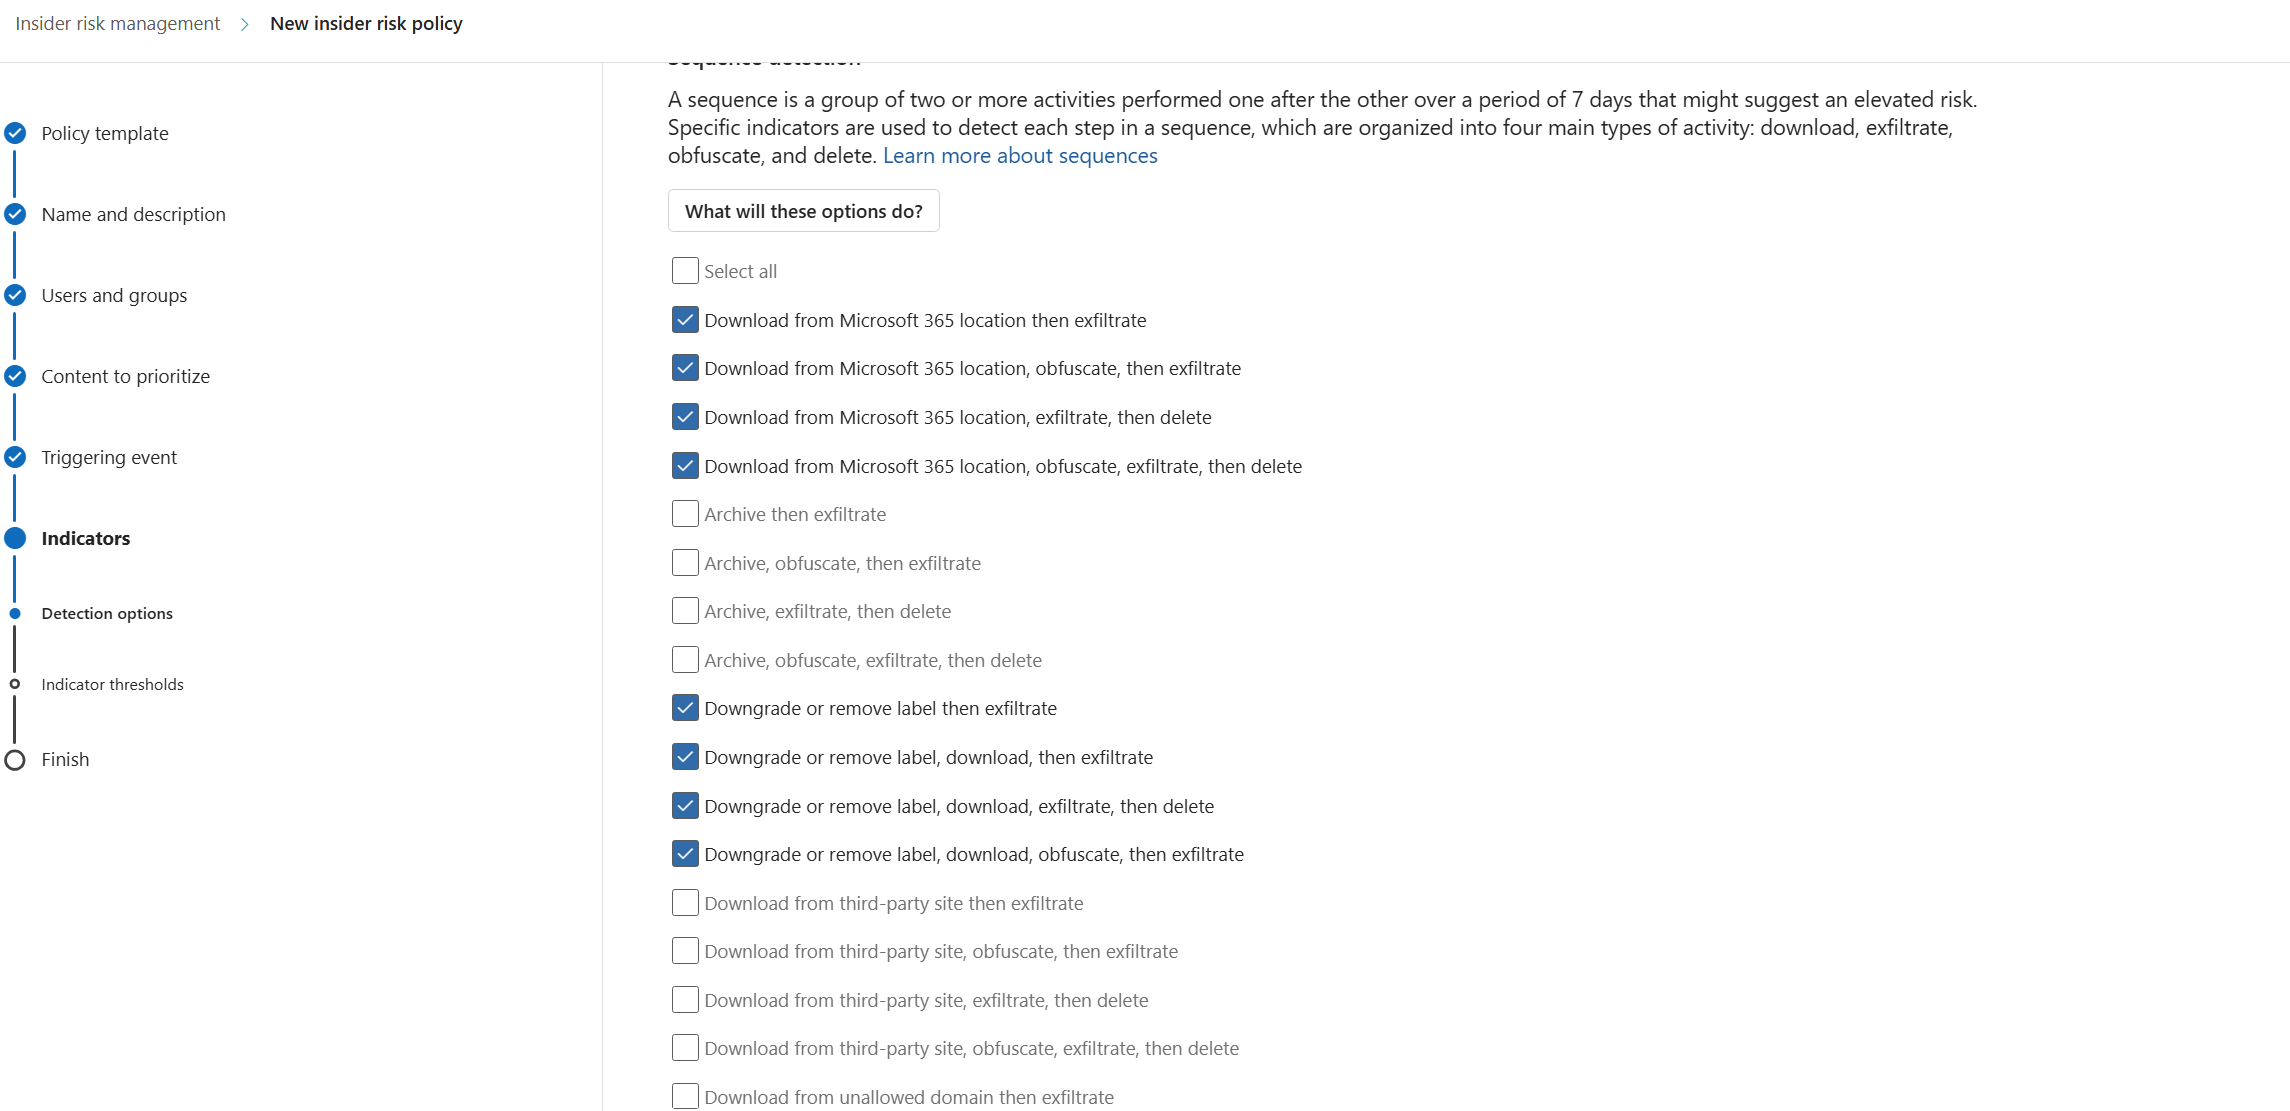
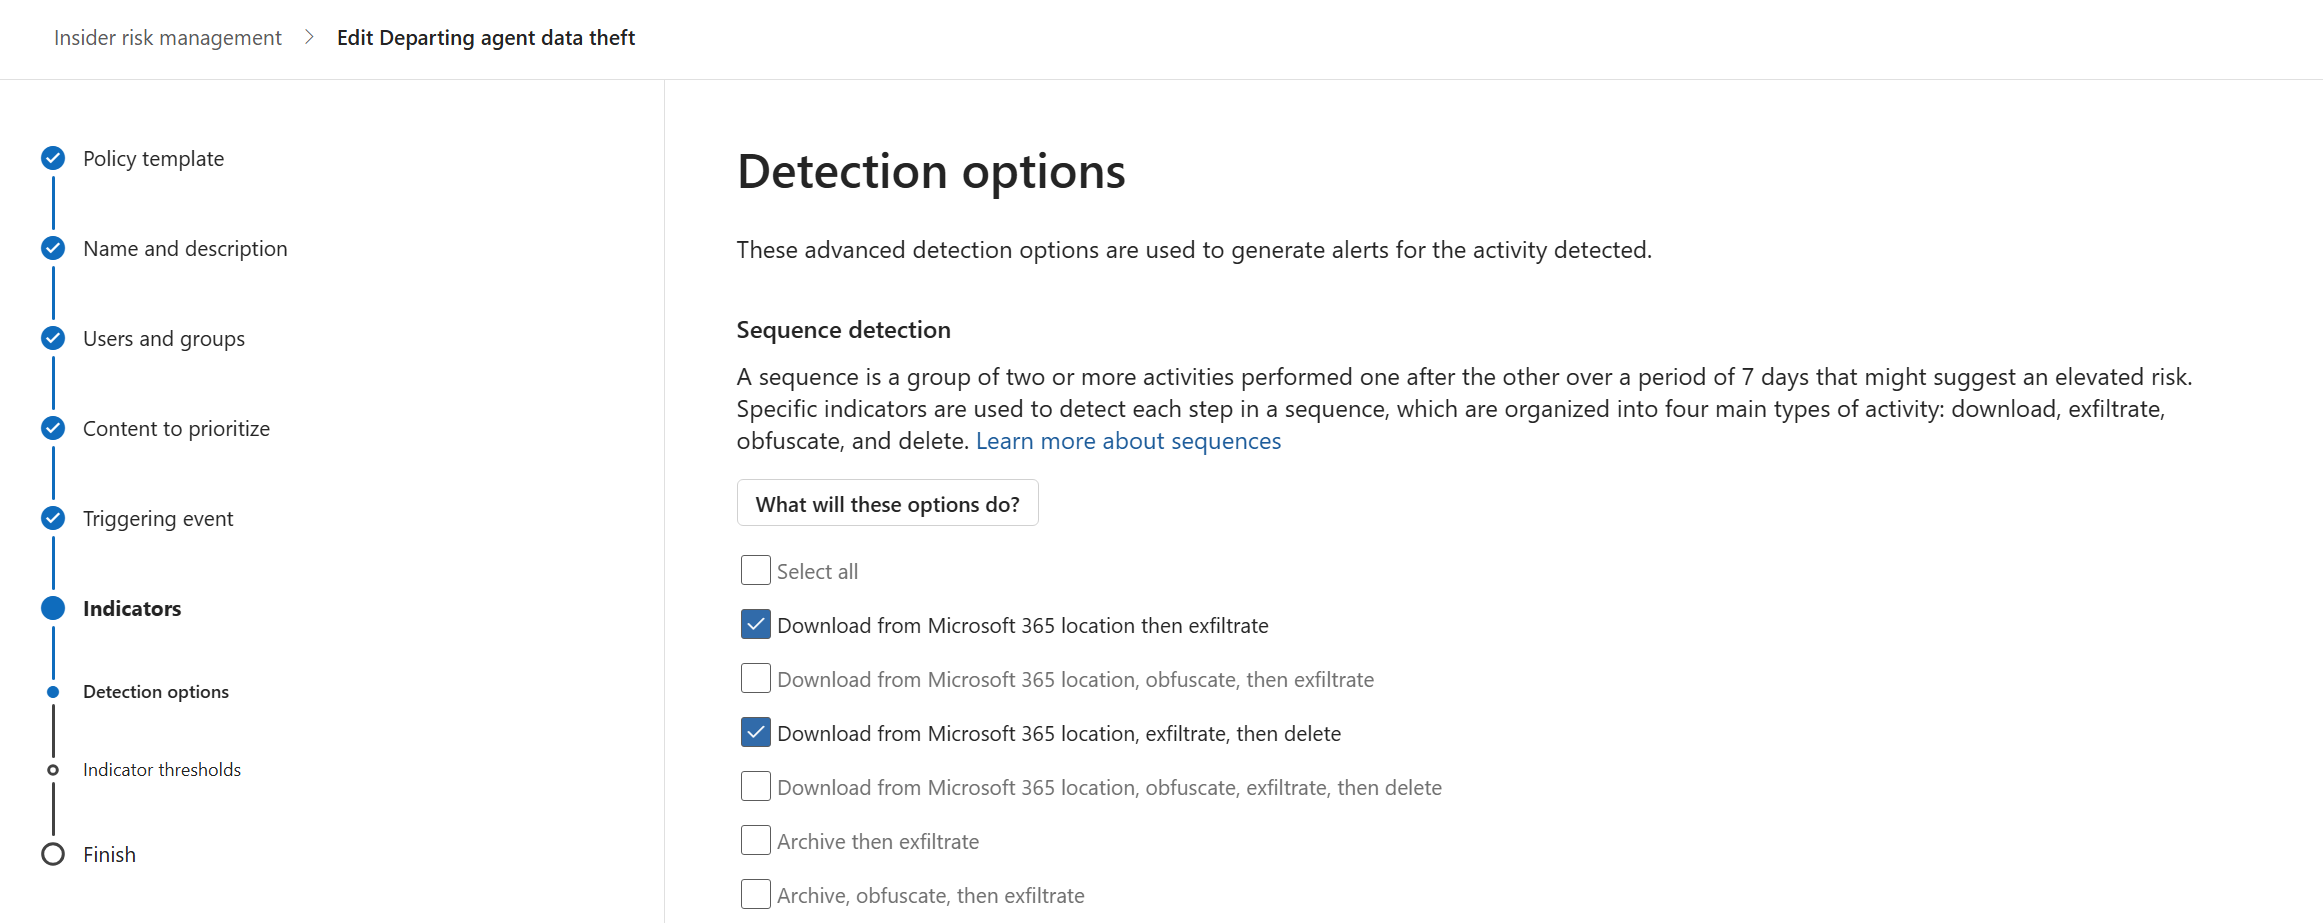
Update lab guide content

diff --git a/docs/05- IRM - Departing MI5 Agent Data Theft.md b/docs/05- IRM - Departing MI5 Agent Data Theft.md
@@ -85,6 +85,8 @@ The final step is to run a sample script that uploads the HR data from the CSV f
 
 ## Create a keyword dictionary from a file using PS
 
+Reference: [Create a keyword dictionary from a file](https://learn.microsoft.com/en-us/purview/sit-create-a-keyword-dictionary#create-a-keyword-dictionary-from-a-file-using-powershell)
+
 1. To begin, you need to connect to Security & Compliance PowerShell.
 2. Save keywords text file locally (Has to be saved with Unicode encoding. To if needed to check > In Notepad, navigate to > Save As > Encoding > Unicode.)
 3. Read the file into a variable by running this cmdlet:
@@ -96,8 +98,30 @@ The final step is to run a sample script that uploads the HR data from the CSV f
 4. Read the file into a variable by running this cmdlet:
 
 ```powershell
-  New-DlpKeywordDictionary -Name <mark><name><mark>-Description <mark> <description> <mark> -FileData $fileData
+  New-DlpKeywordDictionary -Name <name>-Description <description> -FileData $fileData
    ```
+
+Do again for keyword dictionary 2.
+
+##  Create a custom Sensitive Information Type (SIT) 
+
+Create MI5 custom SIT with the following configuration: 
+   - **Primary element** (keyword dictionary, Word match): `007Movies`
+   - **Primary element** (keyword dictionary, Word match): `007James`
+   - **Character proximity:** `300` 
+   - **Confidence level:** Medium (75 in PowerShell)
+
+You can create SIT either through the Microsoft Purview portal or by using Security & Compliance PowerShell cmdlets. The PowerShell approach is shown below.
+
+- Microsoft Learn [Modify a custom sensitive information type using PowerShell]( https://learn.microsoft.com/en-us/purview/sit-modify-a-custom-sensitive-information-type-in-powershell)
+- Microsoft Learn [Create a custom sensitive information using PowerShell](https://learn.microsoft.com/en-us/purview/sit-create-a-custom-sensitive-information-type-in-scc-powershell)
+
+
+## Universal Exports document library
+
+1. Create a **Universal Exports** SharePoint site or use any of the existing SPO sites.
+2. Create a new document library named `MI5`
+2. Upload the **James Bond — Daily briefing** and **Project documents** folders to the `MI5` document library.
 
 
 ## Create an Insider Risk Management policy
@@ -125,7 +149,7 @@ The final step is to run a sample script that uploads the HR data from the CSV f
    - **Detection options:**
      - **Sequence detection** — select **Download from M365 location then exfiltrate** and **Download from M365 location then exfiltrate, then delete**.
      - **Cumulative exfiltration detection** — leave unselected.
-     - **Risk score boosters** — select **Activity is above the user's usual activity for that day**, then **Next**.
+     - **Risk score boosters** — leave unselected.
 
    ![Selected Insider Risk Management detection options](../images/irm-selected-detectionoptions.png)
 
@@ -152,17 +176,3 @@ Over the first three days, perform the following actions as the departing user t
 - Download 2 files from SharePoint to OneDrive.
 - Send 1 email to a recipient outside the organization.
 - Send 1 email to a public (free) domain.
-
-### Universal Exports document library
-
-1. On the **Universal Exports** SharePoint site, create a new document library named `MI5`, labeled **Internal Exception**.
-2. Upload the **James Bond — Daily briefing** and **Project documents** folders.
-
-   > _These are automatically given the **Internal Exception** label._
-
-### Follow-up DLP automation
-
-- Configure a DLP policy on **Credentials** with a Power Automate action that emails the user a "do not store credentials" reminder.
-- **Locations:** SharePoint Online and OneDrive.
-
-> **Verify:** in **Insider Risk Management** > **Alerts**, alerts are generated for the departing user after the simulated activity and HR connector events are processed.

diff --git a/docs/02-HR.md b/docs/02-HR.md
@@ -158,3 +158,12 @@ Reference: [Publish sensitivity labels by creating a label policy](https://learn
 10. **Review and finish** > **Submit**.
 
 > **Verify:** the **HR publishing policy** appears with status **On (success)** within a few minutes. After up to 24 hours, the **HR** label is selectable in Word, Excel, PowerPoint, and Outlook for HR group members
+
+
+### Appendix 1. HR SIT
+
+The keywords used in the HR sensitive information type are taken from the sample employment contract document. The screenshots below show the source document and which fields each keyword targets.
+
+![Sample employment contract document showing HR keyword sources, page 1](../images/lab-guide-developer-subscription-037-f0c1a5c4.png)
+
+![Sample employment contract document showing HR keyword sources, page 2](../images/lab-guide-developer-subscription-038-9541d3c5.png)